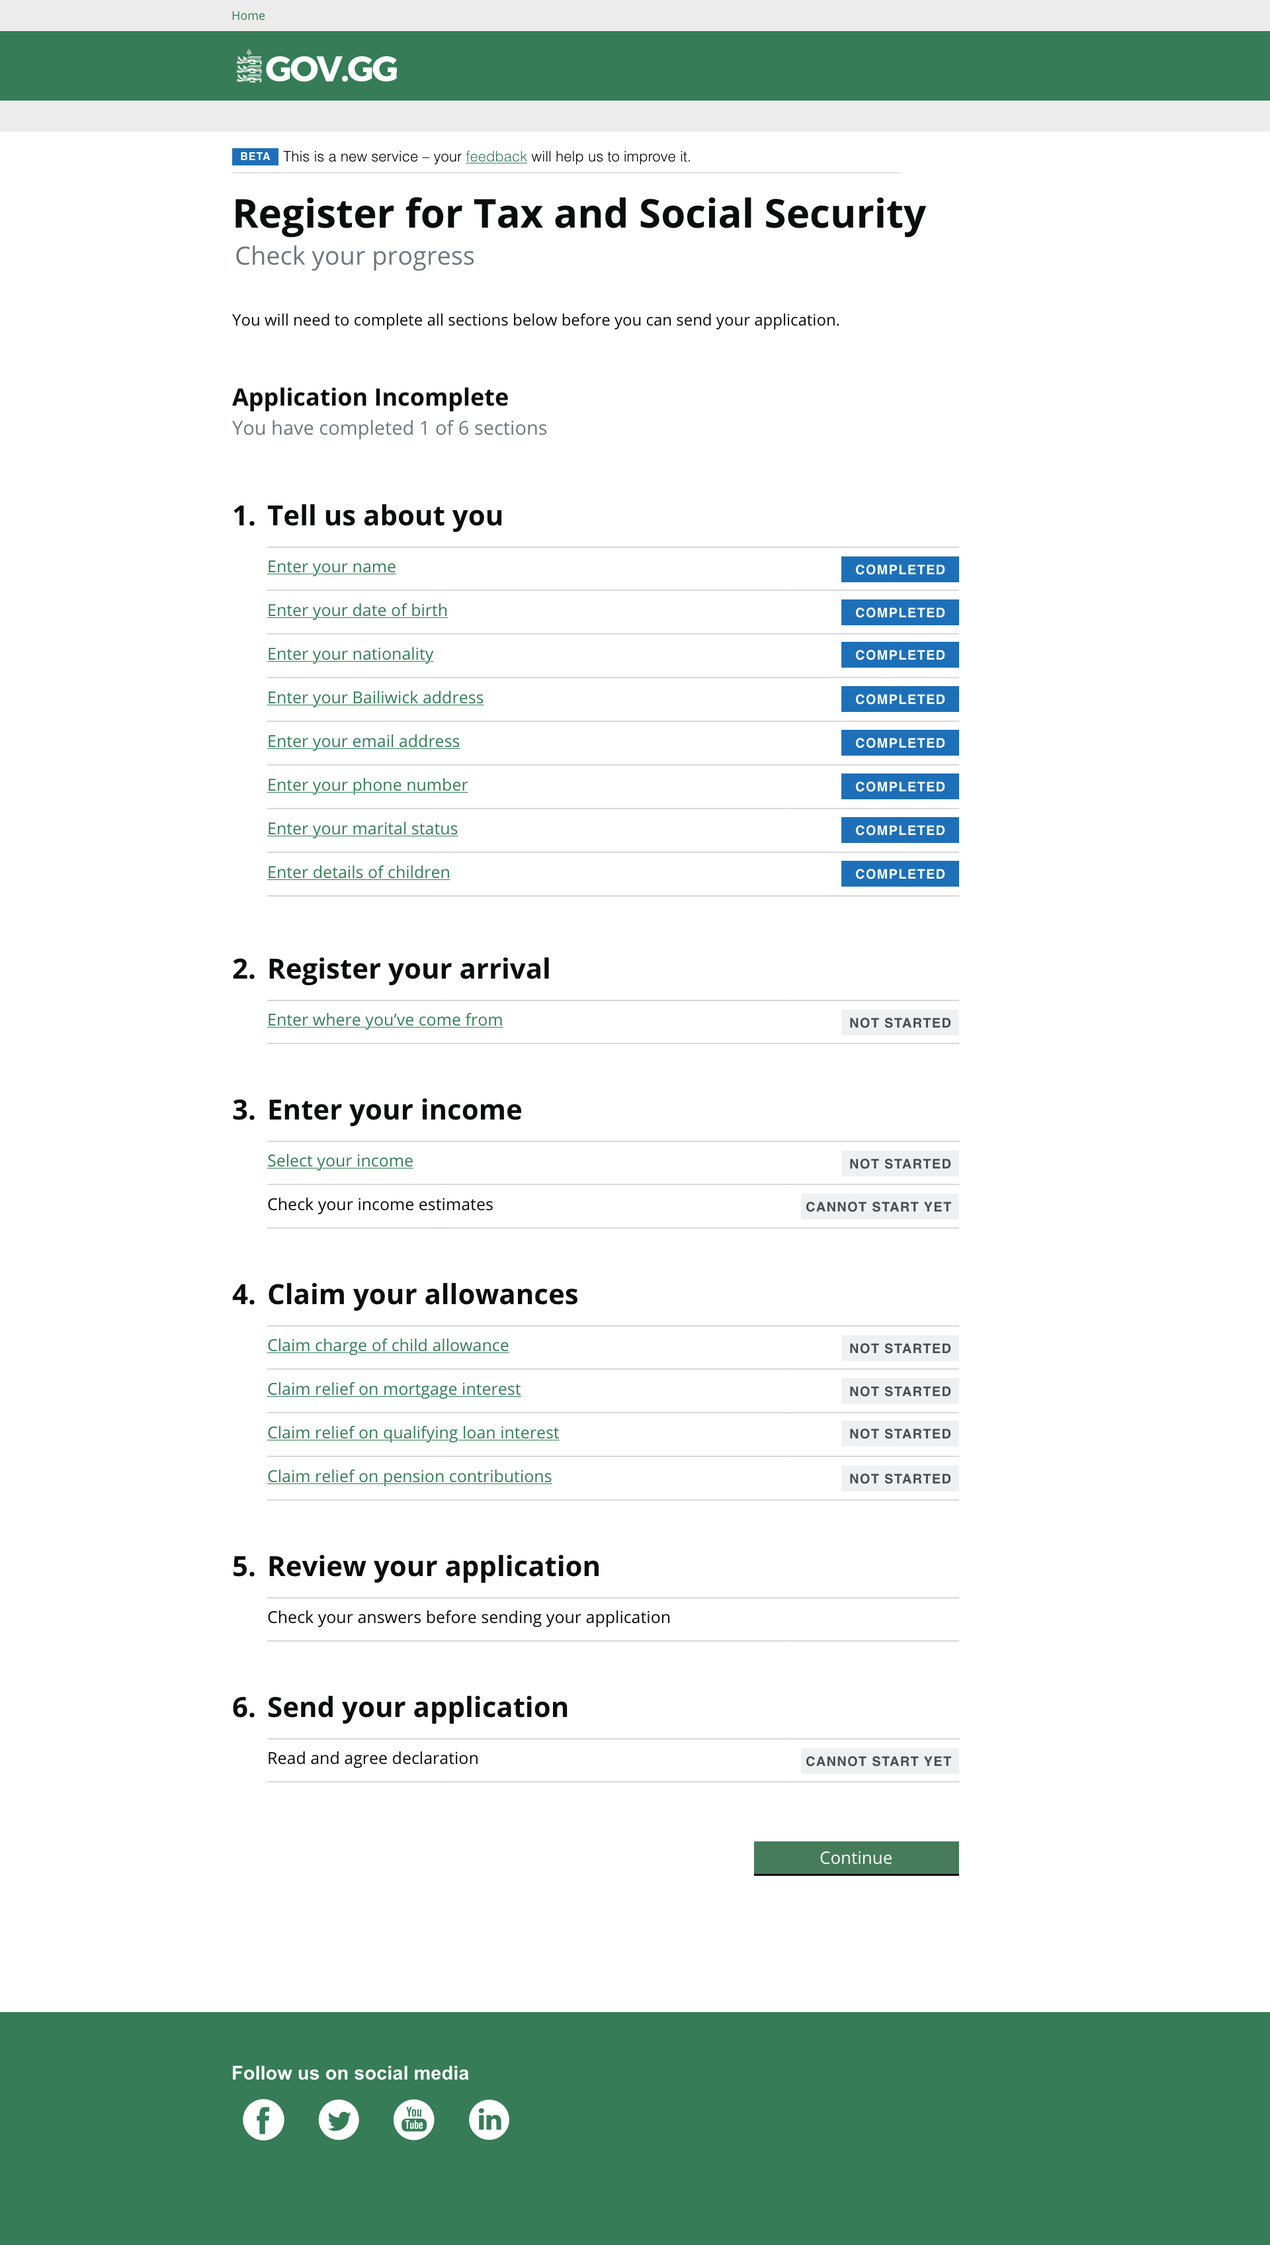
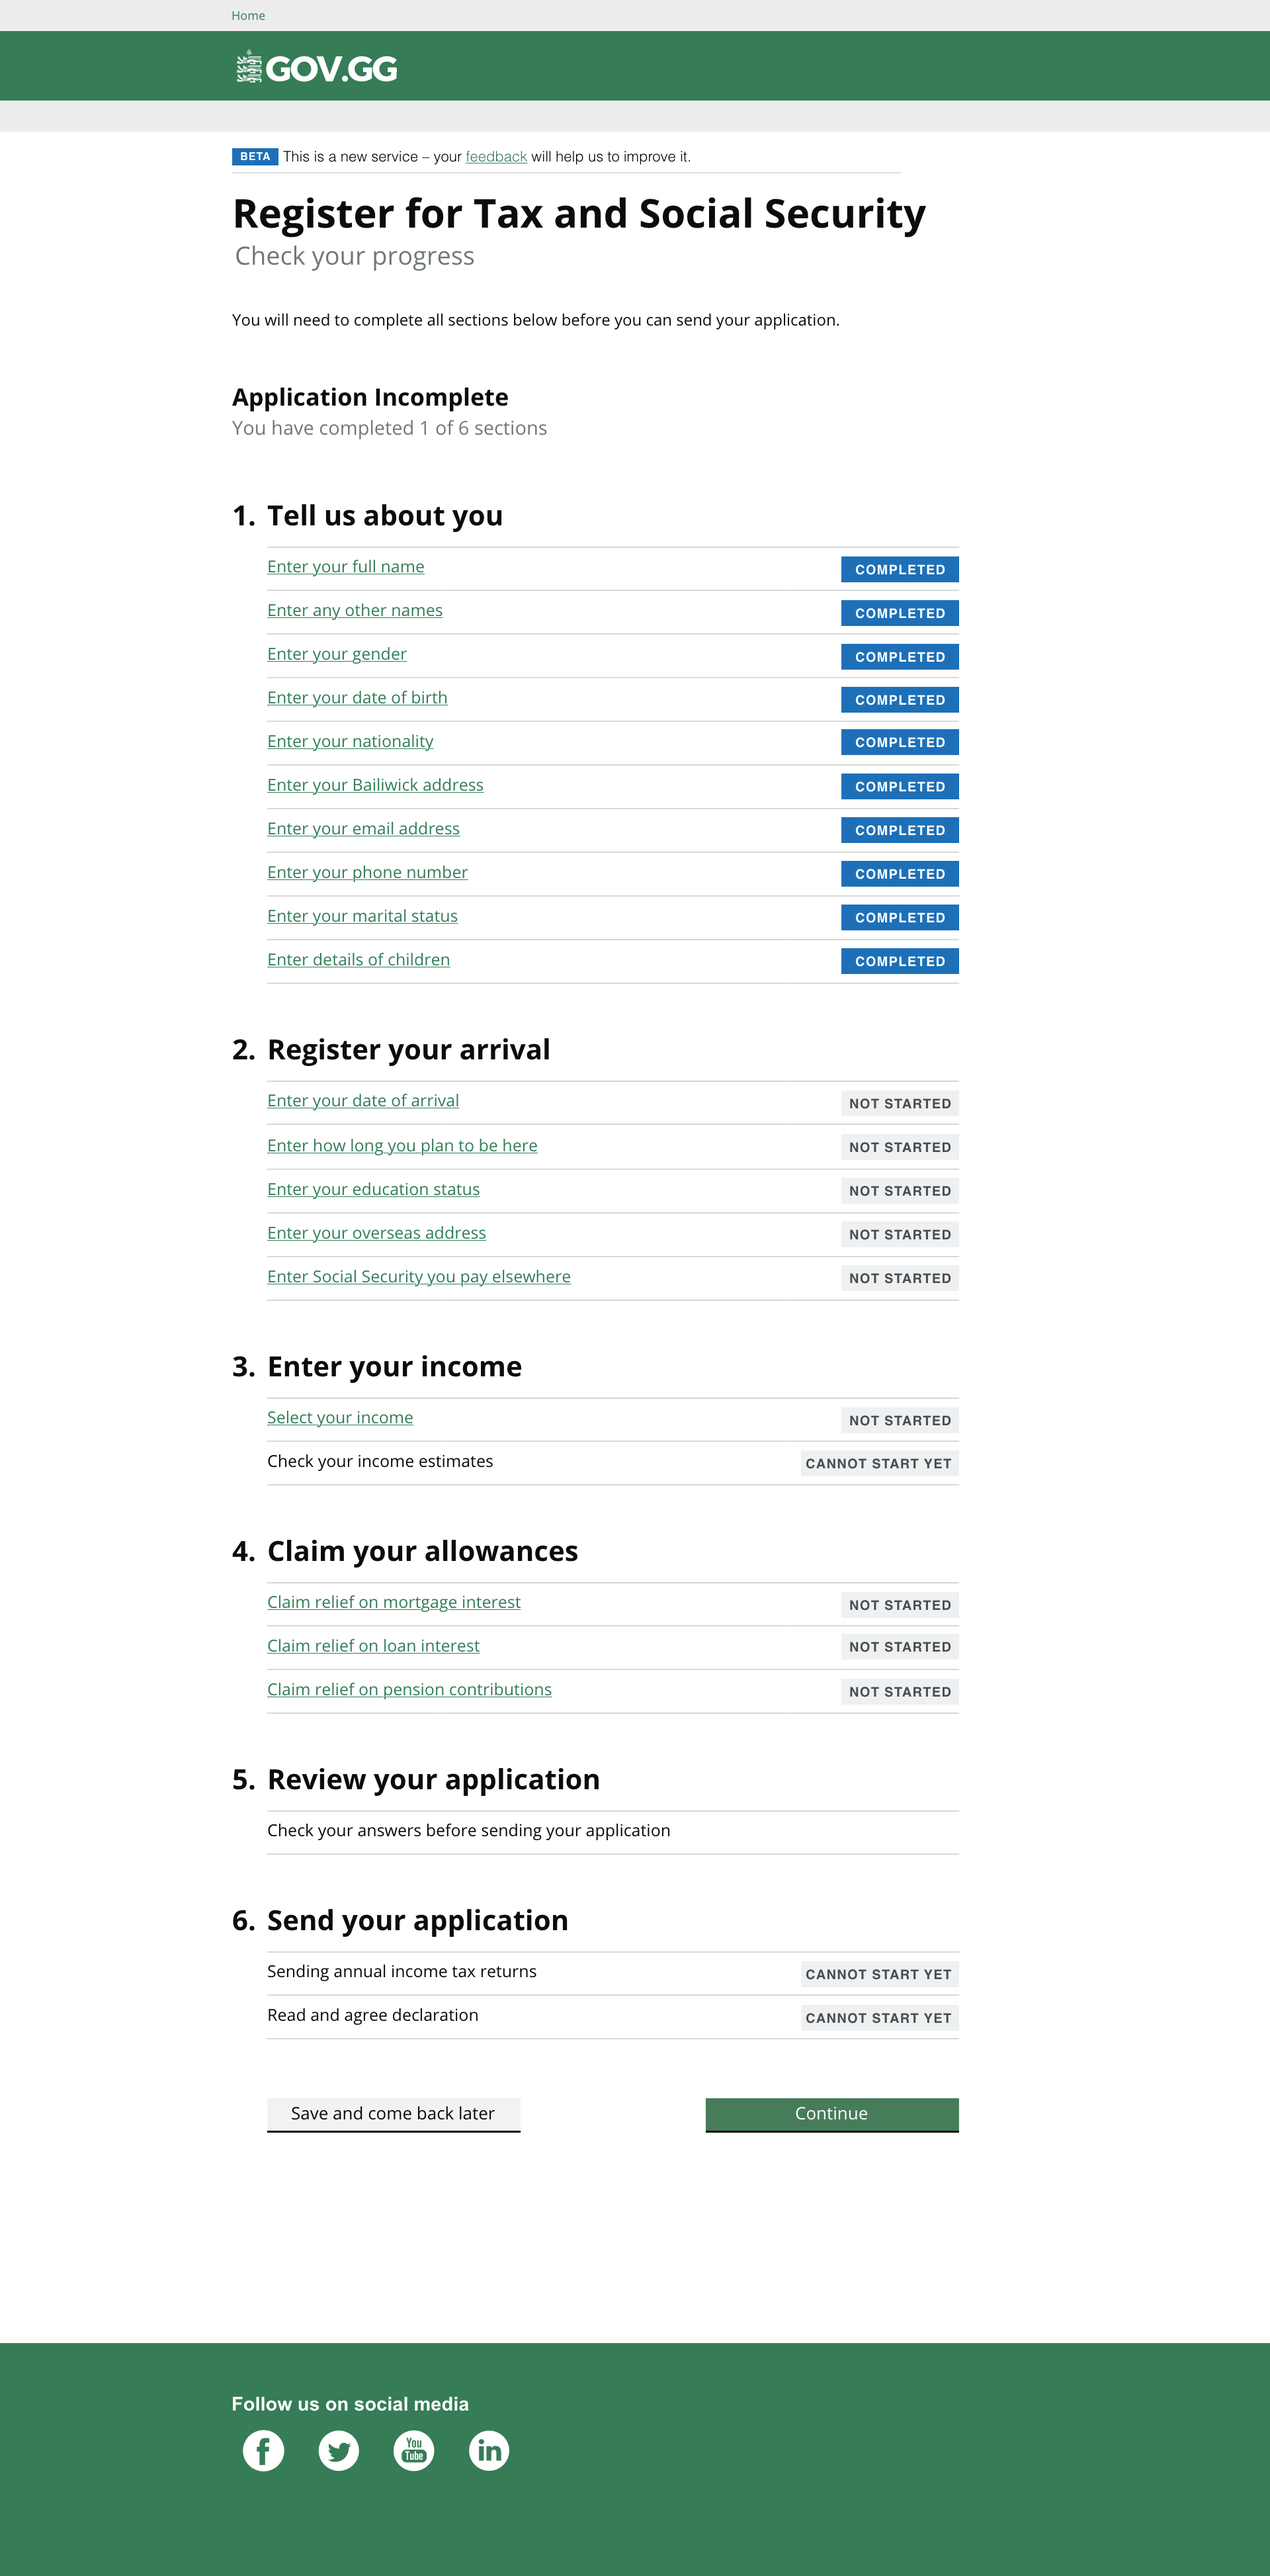
updated screenshots

diff --git a/exemplar/1/data.js b/exemplar/1/data.js
@@ -187,11 +187,20 @@ var data = {
       "caption": "Name",
       "imgref": "images/2.Enter-your-name.png"
     },{
-      "caption": "Date of birth",
-      "imgref": "images/3.date-of-birth.png",
+      "caption": "Any other names",
+      "imgref": "images/Any_other_names.png"
+    },{
+      "caption": "Previous name",
+      "imgref": "images/previous_name.png"
+    },{
+      "caption": "Gender",
+      "imgref": "images/gender.png"
     },{
       "caption": "Nationality",
       "imgref": "images/4.Enter-your-nationality.png"
+    },{
+      "caption": "Date of birth",
+      "imgref": "images/3.date-of-birth.png",
     },{
       "caption": "Bailiwick address",
       "imgref": "images/5.Bailiwick-address.png"
@@ -206,7 +215,7 @@ var data = {
       "imgref": "images/8.Marital-status.png"
     },{
       "caption": "Children",
-      "imgref": "images/9.children.png"
+      "imgref": "images/children-no.png"
     },{
       "caption": "Task list",
       "imgref": "images/10.task-list-tell-us-about-you-end.png"
